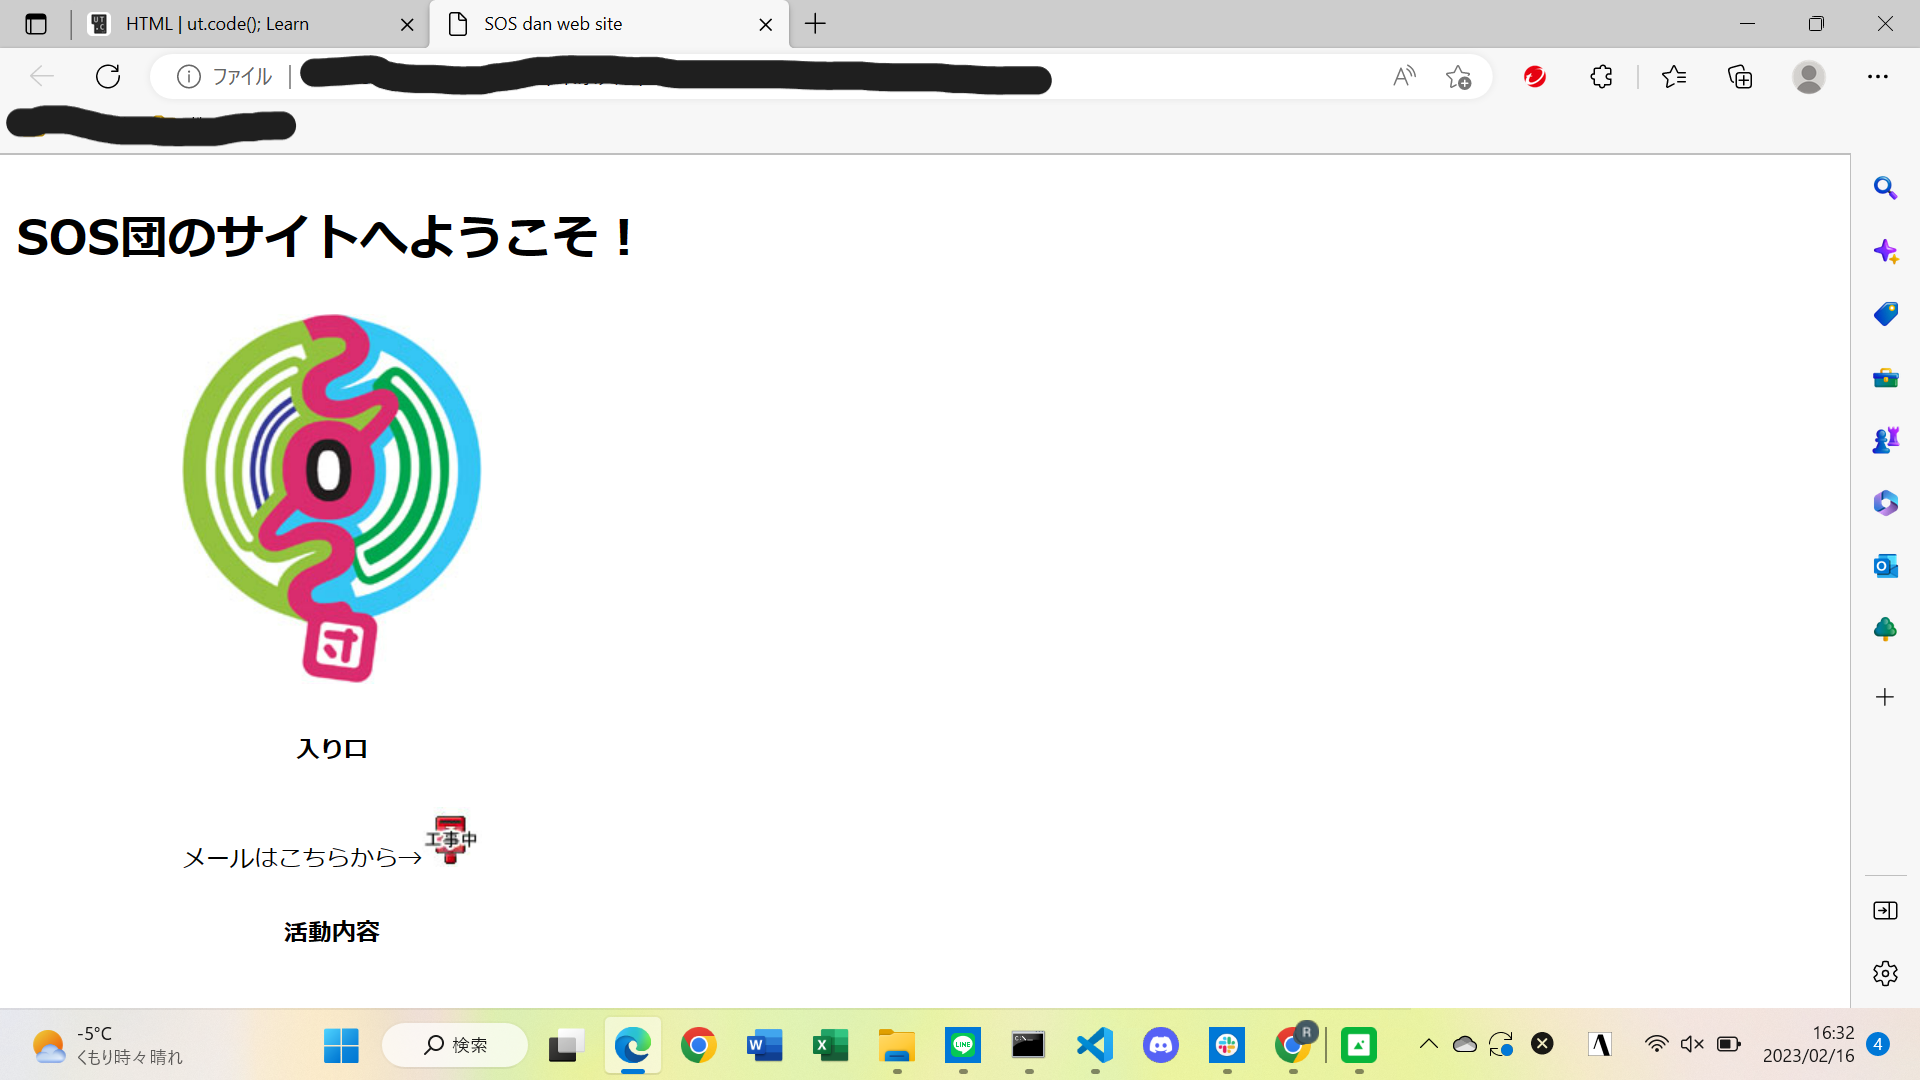
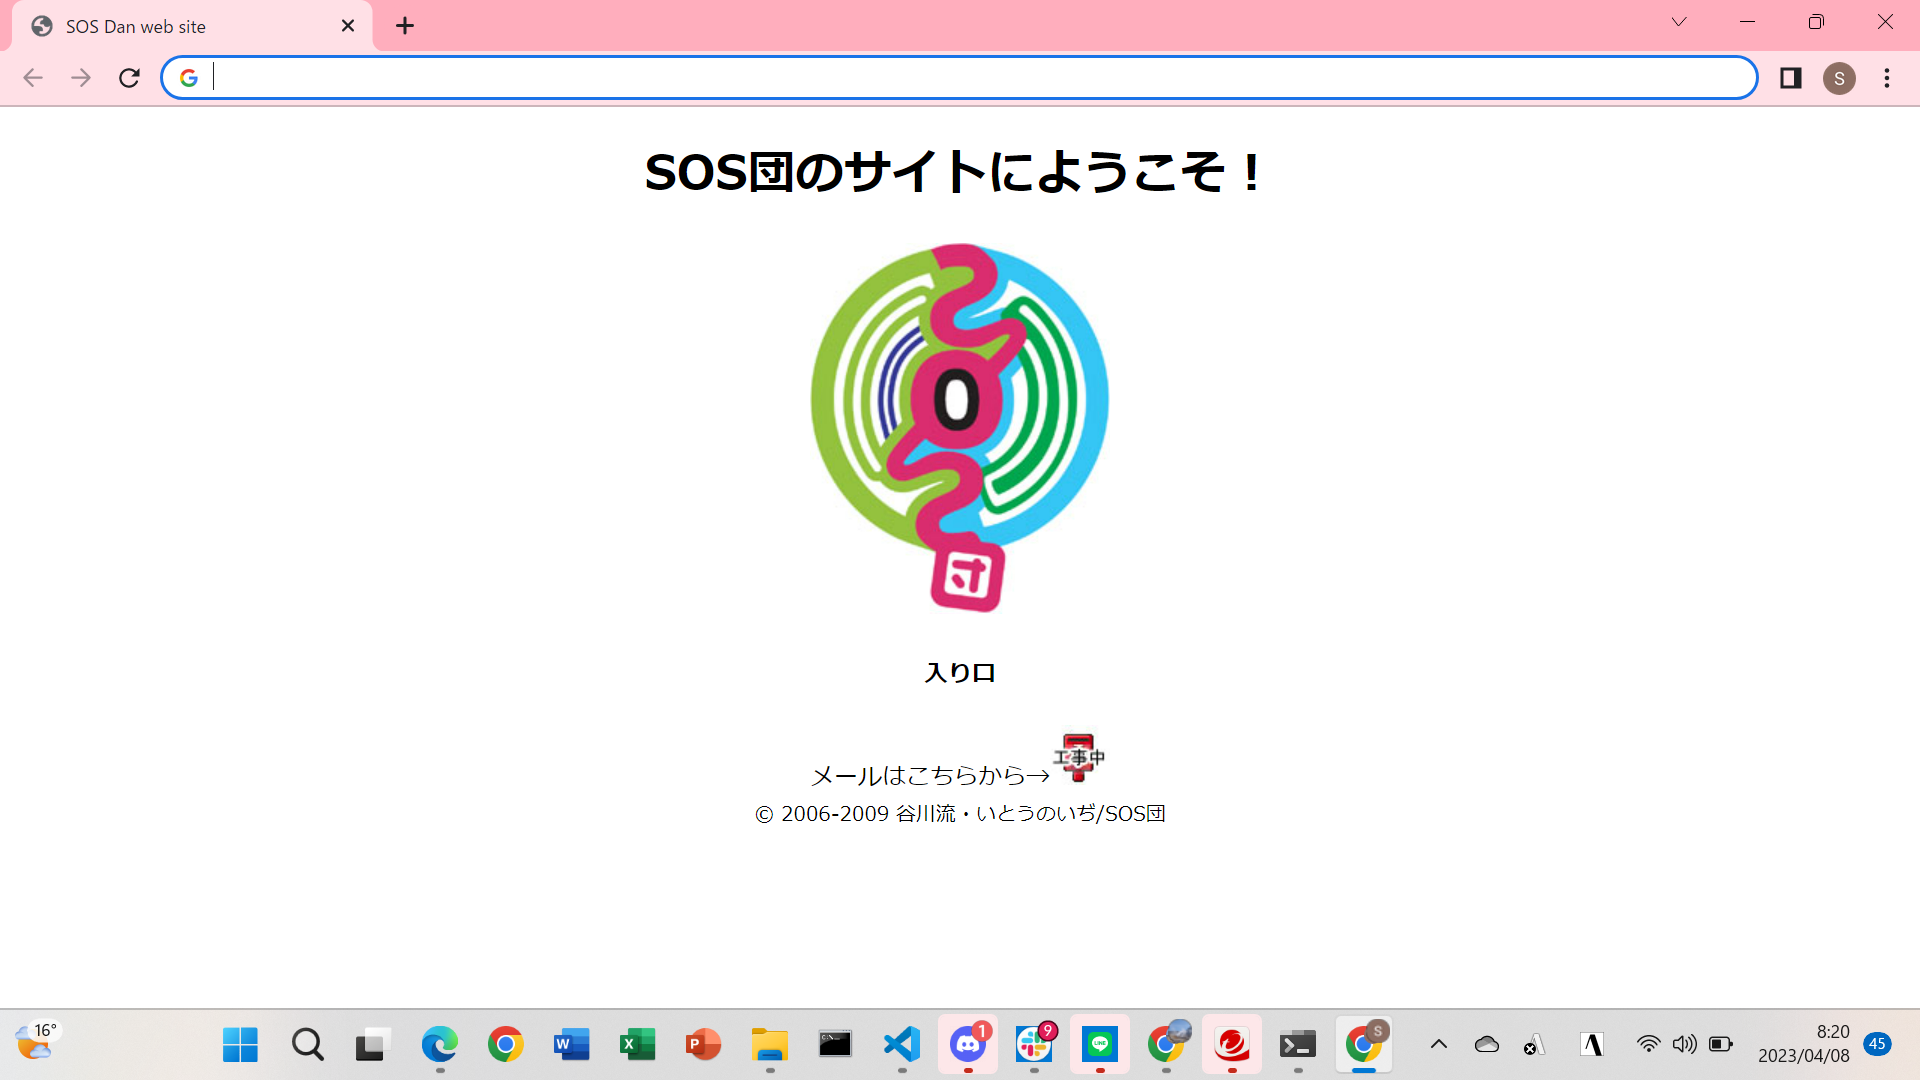
課題2の訂正完了

diff --git a/docs/6-exercise/1-basis-of-web/index.md b/docs/6-exercise/1-basis-of-web/index.md
@@ -20,11 +20,17 @@ import ViewSource from "@site/src/components/ViewSource";
 
 - 写真を出すには `img` タグを使います。`src` 属性に写真の URL を指定しましょう。
 
-- [SOS 団の Web サイト](http://haruhi.tv)を開き、ダウンロードしたい画像にカーソルを当てて右クリックすると、写真をダウンロードすることができます。
+- [SOS 団の Web サイト](http://haruhi.tv)を開き、ダウンロードしたい画像にカーソルを当てて右クリックすると、写真をダウンロードすることができます。htmlファイルと同じ階層に保存するのがおすすめです。URLは`./ファイル名`となります。
 
 - 何らかの理由で画像読み込みに失敗した時、何の写真を出したかったか説明するために、画像には「代替テキスト」を設定することが多いです。`img` タグでは `alt` 属性で代替テキストを指定できます。余力のある人は実装してみましょう。実装したら、写真ファイルを削除して挙動を確認してみましょう。
 
-- 文章や写真がなんとなく真ん中で一列にきれいに揃えられていますね。実は `table` タグで表を作っています。表といえど境界線がないので気づきにくかったかもしれません。`table` タグに `tr`、`th`、`td`タグをネストさせてきれいな表を作りましょう。全ての `td` タグの `align` 属性にある値を入れると...なんということでしょう。真ん中が縦で揃えられた表が完成します。
+- 文章や写真がなんとなく真ん中で一列にきれいに揃えられていますね。これは`body`要素の`style`属性を設定することで実装できます。`body`の開始タグを
+```html
+<body style="text-align: center">
+```
+としてみましょう。
+
+- 作者に敬意を表してcopyrightを作成しましょう。`small`タグで文字を小さくしたほうがデザインが良いですね。copyrightでよくある、cを円で囲ったあの記号は`&copy;`と書けば出力できます。
 
 - [こちら](https://developer.mozilla.org/ja/docs/Web/HTML/Element)で HTML タグの使い方が簡潔に示されています。
 
@@ -36,34 +42,24 @@ import ViewSource from "@site/src/components/ViewSource";
 <!DOCTYPE html>
 <html lang="ja">
   <head>
-    <meta charset="UTF-8" />
-    <title>SOS dan web site</title>
+    <meta charset="UTF-8">
+    <meta name="viewport" content="width=device-width, initial-scale=1.0">
+    <title>SOS Dan web site</title>
   </head>
-  <body>
-    <table>
-      <tr>
-        <th align="center"><h1>SOS団のサイトへようこそ！</h1></th>
-      </tr>
-      <tr>
-        <td align="center"><img src="./zozlogo.jpg" alt="SOS団ロゴ" /></td>
-      </tr>
-      <tr>
-        <td align="center"><h4>入り口</h4></td>
-      </tr>
-      <tr>
-        <td align="center">
-          メールはこちらから→<img src="./post_no.jpg" alt="ポスト" />
-        </td>
-      </tr>
-      <tr>
-        <td align="center"><h4>活動内容</h4></td>
-      </tr>
-    </table>
+  <body style="text-align: center">
+    <div><h1 style="color: red">SOS団のサイトにようこそ！</h1></div>
+    <div><img src="./zozlogo.jpg" alt="SOS団ロゴ"></div>
+    <div><h4>入り口</h4></div>
+    <div>メールはこちらから→<img src="./post_no.jpg" alt="ポスト"></div>
+    <small>&copy; 2006-2009 谷川流・いとうのいぢ/SOS団</small>
   </body>
 </html>
 ```
 
-`jpg` ファイルは HTML ファイルと同じ階層に入れているので、`img` タグの `src` 属性は `./ファイル名` となっています。
+`jpg` ファイルを HTML ファイルと同じ階層に入れた際の回答例です。`img` タグの `src` 属性は `./ファイル名` となっています。
+
+
+このhtmlファイルだけだとSOS団のロゴやポストの画像は登録されていません。「このプログラムを実行する」を押すと果たしてどう表示されるでしょうか？
 
 <ViewSource url={import.meta.url} path="_samples/sos-dan" />
 
